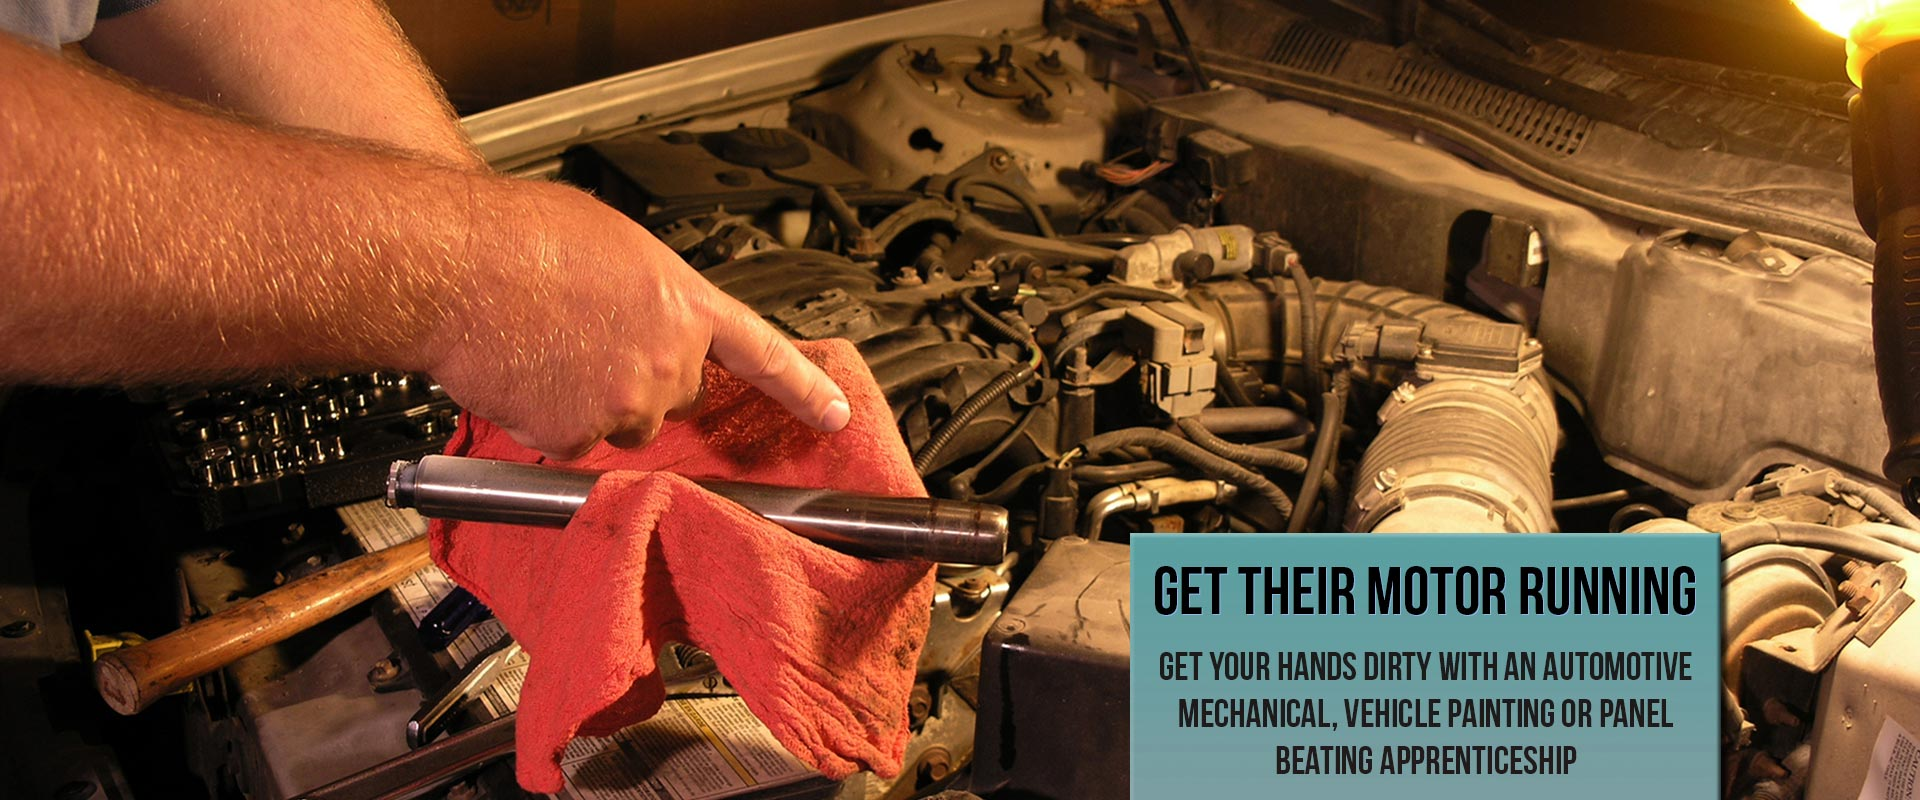
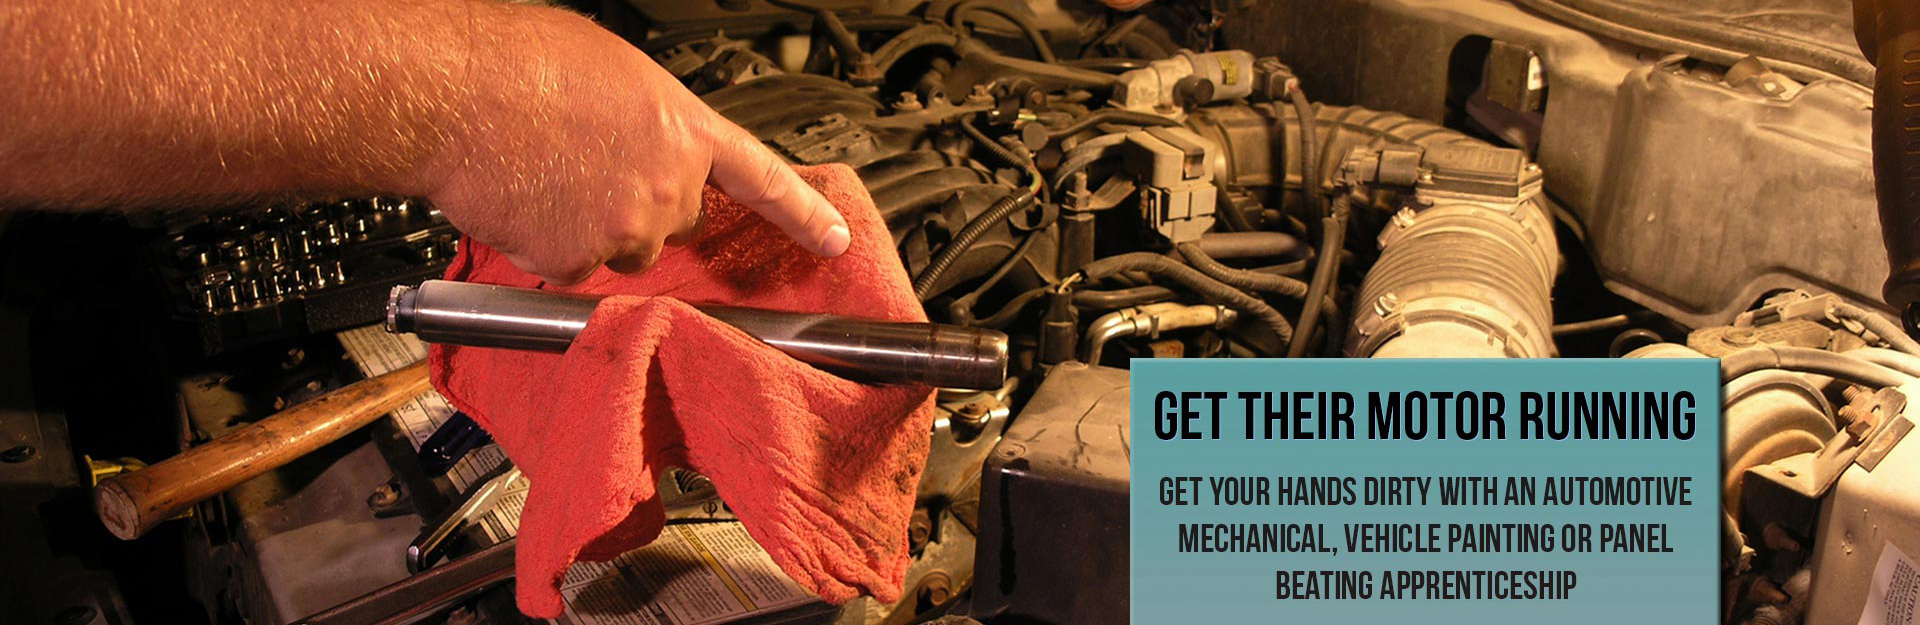
Fixed Slider Images, Updated All Home links

diff --git a/Automotive/AUR20912.html b/Automotive/AUR20912.html
@@ -71,8 +71,7 @@
 	
 <div class="container clearfix" style="padding-top:5px;">			
           <div class="seven columns" style="margin-left:20px;">			
-              <!-- START LOGO -->	
-               <a href="../index.html"><img src="../images/WSWLogoSmall.png" alt="Work Skills - Train them... Don't blame them!" height="100%"/>
+              <!-- START LOGO --><a href="http://workskills.com.au"><img src="images/WSWLogoSmall.svg" alt="Work Skills - Train them... Don't blame them!" height="100%"/>
 			</a>
               <!-- END LOGO -->			
           </div><!-- END FOUR COLUMNS -->   

diff --git a/Automotive/AUR21212.html b/Automotive/AUR21212.html
@@ -71,8 +71,7 @@
 	
 <div class="container clearfix" style="padding-top:5px;">			
           <div class="seven columns" style="margin-left:20px;">			
-              <!-- START LOGO -->	
-               <a href="../index.html"><img src="../images/WSWLogoSmall.png" alt="Work Skills - Train them... Don't blame them!" height="100%"/>
+              <!-- START LOGO --><a href="http://workskills.com.au"><img src="images/WSWLogoSmall.svg" alt="Work Skills - Train them... Don't blame them!" height="100%"/>
 			</a>
               <!-- END LOGO -->			
           </div><!-- END FOUR COLUMNS -->   

diff --git a/Automotive/AUR21912.html b/Automotive/AUR21912.html
@@ -71,8 +71,7 @@
 	
 <div class="container clearfix" style="padding-top:5px;">			
           <div class="seven columns" style="margin-left:20px;">			
-              <!-- START LOGO -->	
-               <a href="../index.html"><img src="../images/WSWLogoSmall.png" alt="Work Skills - Train them... Don't blame them!" height="100%"/>
+              <!-- START LOGO --><a href="http://workskills.com.au"><img src="images/WSWLogoSmall.svg" alt="Work Skills - Train them... Don't blame them!" height="100%"/>
 			</a>
               <!-- END LOGO -->			
           </div><!-- END FOUR COLUMNS -->   

diff --git a/Automotive/AUR21913.html b/Automotive/AUR21913.html
@@ -71,8 +71,7 @@
 	
 <div class="container clearfix" style="padding-top:5px;">			
           <div class="seven columns" style="margin-left:20px;">			
-              <!-- START LOGO -->	
-               <a href="../index.html"><img src="../images/WSWLogoSmall.png" alt="Work Skills - Train them... Don't blame them!" height="100%"/>
+              <!-- START LOGO --><a href="http://workskills.com.au"><img src="images/WSWLogoSmall.svg" alt="Work Skills - Train them... Don't blame them!" height="100%"/>
 			</a>
               <!-- END LOGO -->			
           </div><!-- END FOUR COLUMNS -->   

diff --git a/Automotive/AUR30612.html b/Automotive/AUR30612.html
@@ -71,8 +71,7 @@
 	
 <div class="container clearfix" style="padding-top:5px;">			
           <div class="seven columns" style="margin-left:20px;">			
-              <!-- START LOGO -->	
-               <a href="../index.html"><img src="../images/WSWLogoSmall.png" alt="Work Skills - Train them... Don't blame them!" height="100%"/>
+              <!-- START LOGO --><a href="http://workskills.com.au"><img src="images/WSWLogoSmall.svg" alt="Work Skills - Train them... Don't blame them!" height="100%"/>
 			</a>
               <!-- END LOGO -->			
           </div><!-- END FOUR COLUMNS -->   

diff --git a/Automotive/AUR31012.html b/Automotive/AUR31012.html
@@ -71,8 +71,7 @@
 	
 <div class="container clearfix" style="padding-top:5px;">			
           <div class="seven columns" style="margin-left:20px;">			
-              <!-- START LOGO -->	
-               <a href="../index.html"><img src="../images/WSWLogoSmall.png" alt="Work Skills - Train them... Don't blame them!" height="100%"/>
+              <!-- START LOGO --><a href="http://workskills.com.au"><img src="images/WSWLogoSmall.svg" alt="Work Skills - Train them... Don't blame them!" height="100%"/>
 			</a>
               <!-- END LOGO -->			
           </div><!-- END FOUR COLUMNS -->   

diff --git a/Automotive/AUR31112.html b/Automotive/AUR31112.html
@@ -71,8 +71,7 @@
 	
 <div class="container clearfix" style="padding-top:5px;">			
           <div class="seven columns" style="margin-left:20px;">			
-              <!-- START LOGO -->	
-               <a href="../index.html"><img src="../images/WSWLogoSmall.png" alt="Work Skills - Train them... Don't blame them!" height="100%"/>
+              <!-- START LOGO --><a href="http://workskills.com.au"><img src="images/WSWLogoSmall.svg" alt="Work Skills - Train them... Don't blame them!" height="100%"/>
 			</a>
               <!-- END LOGO -->			
           </div><!-- END FOUR COLUMNS -->   

diff --git a/Automotive/AUR32112.html b/Automotive/AUR32112.html
@@ -71,8 +71,7 @@
 	
 <div class="container clearfix" style="padding-top:5px;">			
           <div class="seven columns" style="margin-left:20px;">			
-              <!-- START LOGO -->	
-               <a href="../index.html"><img src="../images/WSWLogoSmall.png" alt="Work Skills - Train them... Don't blame them!" height="100%"/>
+              <!-- START LOGO --><a href="http://workskills.com.au"><img src="images/WSWLogoSmall.svg" alt="Work Skills - Train them... Don't blame them!" height="100%"/>
 			</a>
               <!-- END LOGO -->			
           </div><!-- END FOUR COLUMNS -->   

diff --git a/Automotive/AUR32412.html b/Automotive/AUR32412.html
@@ -71,8 +71,7 @@
 	
 <div class="container clearfix" style="padding-top:5px;">			
           <div class="seven columns" style="margin-left:20px;">			
-              <!-- START LOGO -->	
-               <a href="../index.html"><img src="../images/WSWLogoSmall.png" alt="Work Skills - Train them... Don't blame them!" height="100%"/>
+              <!-- START LOGO --><a href="http://workskills.com.au"><img src="images/WSWLogoSmall.svg" alt="Work Skills - Train them... Don't blame them!" height="100%"/>
 			</a>
               <!-- END LOGO -->			
           </div><!-- END FOUR COLUMNS -->   

diff --git a/Automotive/AUR32512.html b/Automotive/AUR32512.html
@@ -71,8 +71,7 @@
 	
 <div class="container clearfix" style="padding-top:5px;">			
           <div class="seven columns" style="margin-left:20px;">			
-              <!-- START LOGO -->	
-               <a href="../index.html"><img src="../images/WSWLogoSmall.png" alt="Work Skills - Train them... Don't blame them!" height="100%"/>
+              <!-- START LOGO --><a href="http://workskills.com.au"><img src="images/WSWLogoSmall.svg" alt="Work Skills - Train them... Don't blame them!" height="100%"/>
 			</a>
               <!-- END LOGO -->			
           </div><!-- END FOUR COLUMNS -->   

diff --git a/Business/BSB30412.html b/Business/BSB30412.html
@@ -66,8 +66,7 @@
 	
 <div class="container clearfix" style="padding-top:5px;">			
           <div class="seven columns" style="margin-left:20px;">			
-              <!-- START LOGO -->	
-               <a href="../index.html"><img src="../images/WSWLogoSmall.png" alt="Work Skills - Train them... Don't blame them!" height="100%"/>
+              <!-- START LOGO --><a href="http://workskills.com.au"><img src="images/WSWLogoSmall.svg" alt="Work Skills - Train them... Don't blame them!" height="100%"/>
 			</a>
               <!-- END LOGO -->			
           </div><!-- END FOUR COLUMNS -->   

diff --git a/Business/BSB40812.html b/Business/BSB40812.html
@@ -66,8 +66,7 @@
 	
 <div class="container clearfix" style="padding-top:5px;">			
           <div class="seven columns" style="margin-left:20px;">			
-              <!-- START LOGO -->	
-               <a href="../index.html"><img src="../images/WSWLogoSmall.png" alt="Work Skills - Train them... Don't blame them!" height="100%"/>
+              <!-- START LOGO --><a href="http://workskills.com.au"><img src="images/WSWLogoSmall.svg" alt="Work Skills - Train them... Don't blame them!" height="100%"/>
 			</a>
               <!-- END LOGO -->			
           </div><!-- END FOUR COLUMNS -->   
